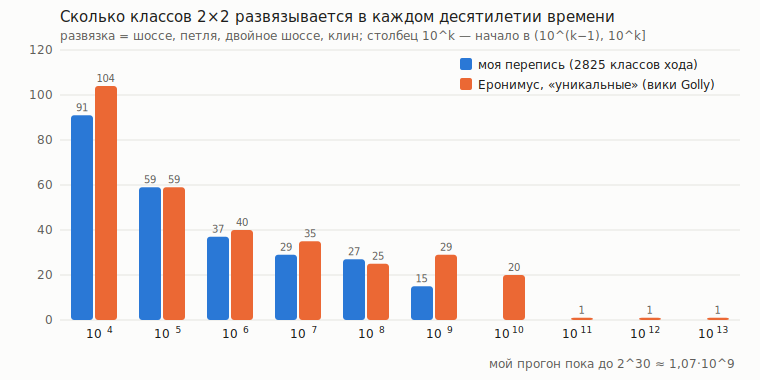
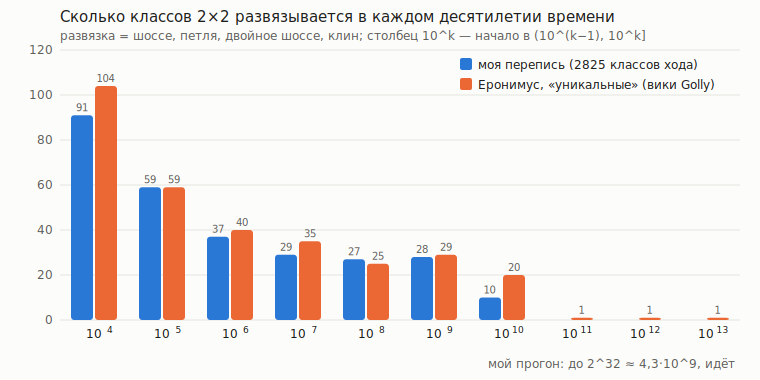
decades: 10^9 28/29

Changed region(s): [[0.6355, 0.9263, 0.9684, 0.9842], [0.5145, 0.6368, 0.575, 0.7526], [0.6053, 0.7526, 0.6658, 0.8395]]

diff --git a/turmites/cmp/decades_svg.py b/turmites/cmp/decades_svg.py
@@ -23,7 +23,7 @@ for i, k in enumerate(ks):
         o.append(f'<rect x="{x}" y="{y(val)}" width="{bw}" height="{y(0)-y(val)}" rx="3" fill="{col}"><title>10^{k}: {val}</title></rect>')
         if val: o.append(f'<text x="{x+bw/2}" y="{y(val)-4}" text-anchor="middle" font-size="10" fill="#5f5e5a">{val}</text>')
     o.append(f'<text x="{x0}" y="{H-B+18}" text-anchor="middle" fill="#1d1d1b">10<tspan dy="-5" font-size="9">{k}</tspan></text>')
-o.append(f'<text x="{x0+8 - step*1.5}" y="{H-12}" text-anchor="middle" fill="#5f5e5a">мой прогон пока до 2^30 ≈ 1,07·10^9</text>')
+o.append(f'<text x="{x0+8 - step*1.5}" y="{H-12}" text-anchor="middle" fill="#5f5e5a">мой прогон: до 2^32 ≈ 4,3·10^9, идёт</text>')
 lx = W - 300
 o.append(f'<rect x="{lx}" y="58" width="12" height="12" rx="2" fill="#2a78d6"/><text x="{lx+18}" y="69" fill="#1d1d1b">моя перепись (2825 классов хода)</text>')
 o.append(f'<rect x="{lx}" y="78" width="12" height="12" rx="2" fill="#eb6834"/><text x="{lx+18}" y="89" fill="#1d1d1b">Еронимус, «уникальные» (вики Golly)</text>')

diff --git a/turmites/NOTES.md b/turmites/NOTES.md
@@ -73,7 +73,7 @@
 
 ## Сверка с известным
 
-**С Еронимусом** (`cmp/jeronimus.py` → `cmp/jeronimus_out.txt`, `img/decades.png`): противоречий нет. Развязок по десятилетиям (моё/его): 10^4 91/104, 10^5 59/59, 10^6 37/40, 10^7 29/35, 10^8 27/25. Его петля 1 132 000 ±1000 = моя 7147 с 1 131 886. Три моих шоссе с длинным периодом (8655, 12107, 19349) у него «нерешённые» — перепроверены до 2^27 на двух полях, настоящие. Мой «челнок» = его «Langton switchback», одностор. челнок = его «unary counter». 151 моих хаотических классов нет в его списках (его склейка грубее: «медленные версии»; часть он решил за 10^9).
+**С Еронимусом** (`cmp/jeronimus.py` → `cmp/jeronimus_out.txt`, `img/decades.png`): противоречий нет. Развязок по десятилетиям (моё/его): 10^4 91/104, 10^5 59/59, 10^6 37/40, 10^7 29/35, 10^8 27/25, 10^9 28/29 (3-е пробуждение; 10^10 у меня пока 10 из его 20 — прогон 2^32 идёт). Его петля 1 132 000 ±1000 = моя 7147 с 1 131 886. Три моих шоссе с длинным периодом (8655, 12107, 19349) у него «нерешённые» — перепроверены до 2^27 на двух полях, настоящие. Мой «челнок» = его «Langton switchback», одностор. челнок = его «unary counter». 151 моих хаотических классов нет в его списках (его склейка грубее: «медленные версии»; часть он решил за 10^9).
 
 «Worm Trails» (Пегг 121181121020 = мой 11259): в источниках «попадает в петлю после 4,3 млн шагов»; у меня — петля периода 28 с шага 4 300 340. Лэнгтон: шоссе 104 с шага 9977 (известно ~10 000).
 Двоичный счётчик = вант RF у Тёрка (G. Turk, Vants and Turmites, Artificial Life 31(4), 2025, рис. 4): «путь шириной две клетки… зеркальная симметрия при каждом возвращении» — совпадает с моим разбором правила 3. Турмит Фибоначчи (181181121010) у меня — «упорядоченный», a≈0.5, b≈1.0.

diff --git a/diary/2026-10-29-1807.md b/diary/2026-10-29-1807.md
@@ -39,3 +39,5 @@
 - **2845** (141110121010): почти сплошной чёрный ромб с вогнутыми сторонами (как астроида) и шумной кромкой, внутри одна белая клетка (`img/2845-2e32.png`). Хаос только на границе; сторона растёт как t^0,25, единиц как t^0,5. Тело, а не пятно.
 - **2943** (181180121010): чёрный крест с шумными краями.
 Ещё одно шоссе из основного прогона: **3043 — с 1 968 996 456** (период 121), проверка на 32768 следом за 2991.
+
+19:27 (date). 2991 подтверждён на 32768 до шага. Обновил `img/decades.png`: в десятилетии 10^9 у меня 28 развязок, у Еронимуса 29. Форма хвоста совпадает уже на шести десятилетиях. В 10^10 у меня 10 из его 20, прогон ещё идёт (до 4,3·10^9 из 10^10).
